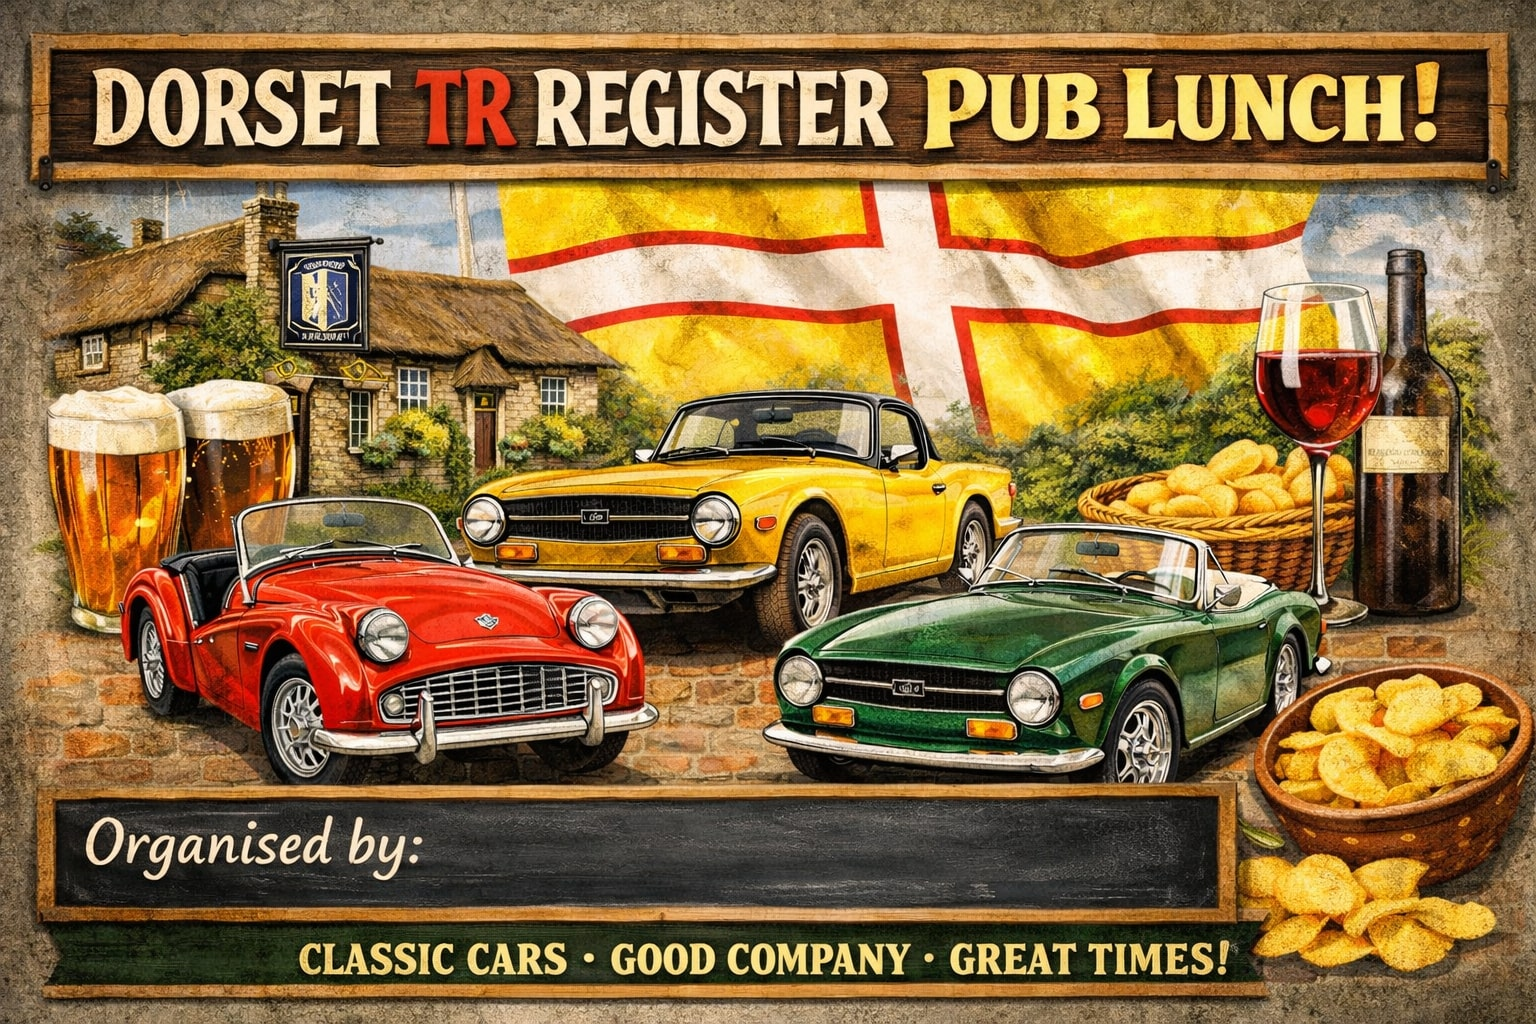
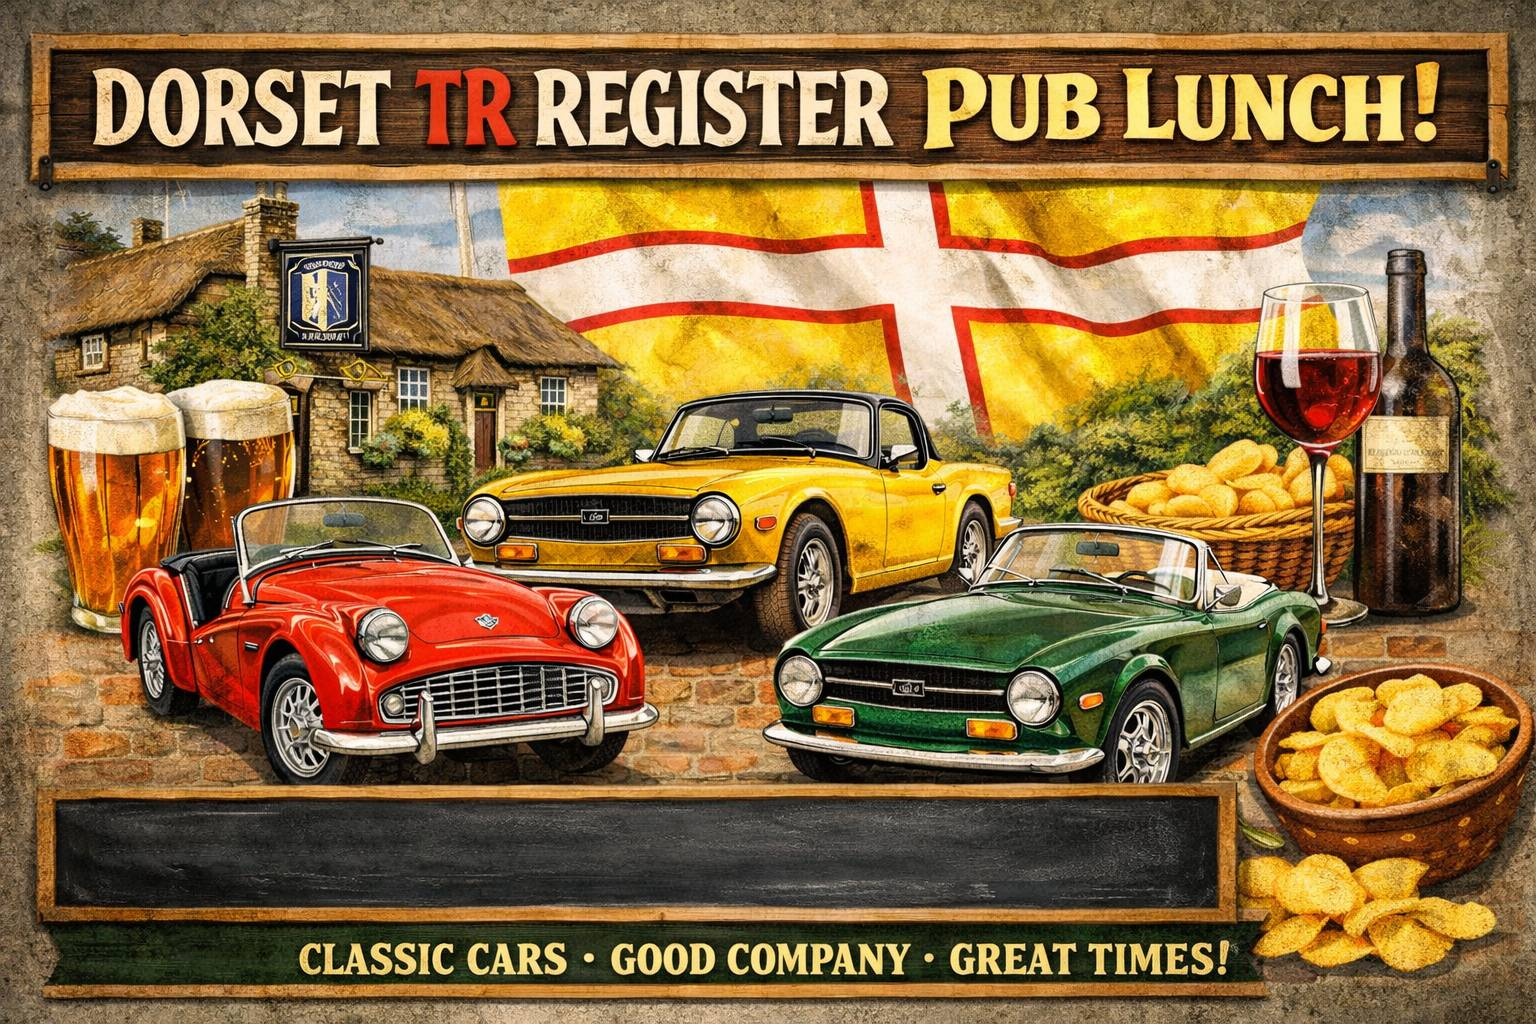
improved artwork by removing baked in text

Changed region(s): [[0.0312, 0.7812, 0.2812, 0.875]]

diff --git a/assets/images.js b/assets/images.js
@@ -8,7 +8,7 @@ const images = {
         },
         textBlock: {
             transform: {
-                position: { x: 450, y: 850 },
+                position: { x: 82, y: 850 },
                 rotate: 0,
                 scale: 1,
                 skew: { x: 0, y: 0 }
@@ -22,7 +22,7 @@ const images = {
                 shadow: null
             },
             lines: [
-                { text: 'Steve and SaNdra' }
+                { text: '22/02 - BOTANY BAY INNE    12:30' }
             ]
         }
     },
@@ -30,12 +30,12 @@ const images = {
     image2: {
         meta: {
             name: 'Pub Lunch Portrait',
-            prompt: 'up to 4 lines',
+            prompt: 'up to 5 lines',
             src: 'assets/artwork/pub-lunch-portrait-master.jpg'
         },
         textBlock: {
             transform: {
-                position: { x: 85, y: 1160 },
+                position: { x: 85, y: 1100 },
                 rotate: 0,
                 scale: 1,
                 skew: { x: 0, y: 0 }
@@ -49,8 +49,10 @@ const images = {
                 shadow: null
             },
             lines: [
-                { text: 'Steve and SaNdra' },
-                { text: '22ND FEBRUARY \'26\n\n' +
+                { text: 'STEVE and SANDRA\'S' },
+                { text: 'FEBRUARY PUB LUNCH\n' +
+                        '\n' +
+                        '12:30 ON THE 22ND \n' +
                         'The "BOTANY BAY INNE", DT11 9ET',
                     transform: { scale: 0.8 }}
             ]
